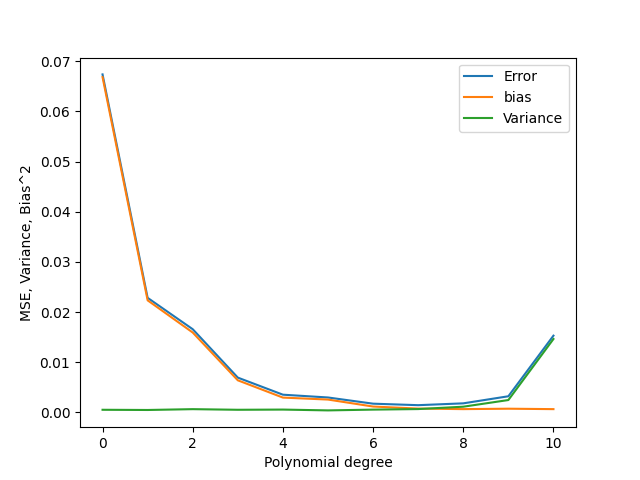
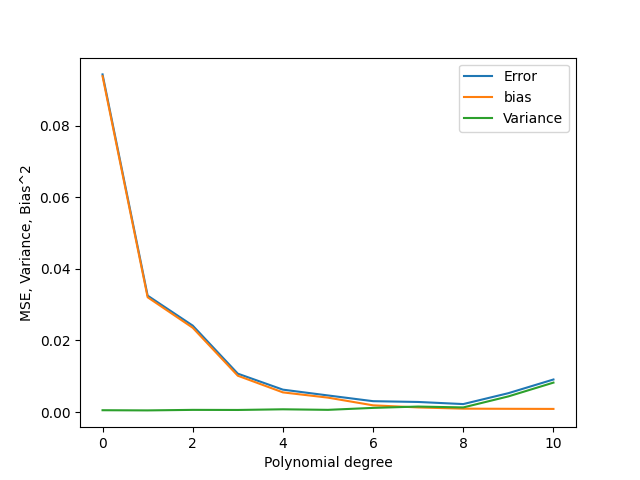
pusher

diff --git a/bootstrap_function.py b/bootstrap_function.py
@@ -1,0 +1,97 @@
+import matplotlib.pyplot as plt
+import numpy as np
+from sklearn.model_selection import train_test_split
+from design_matrix import create_design_matrix
+from ordinary_least_squares import calc_beta
+from sklearn.utils import resample
+
+from ridge_regression import ridge_beta
+
+def bootstrap(x, y, z, max_degree, n_bootstraps):
+
+    np.random.seed(1234)
+
+    error = np.zeros(max_degree)
+    bias = np.zeros(max_degree)
+    variance = np.zeros(max_degree)
+    polydegree = np.zeros(max_degree)
+
+    x_train, x_test, y_train, y_test, z_train, z_test = train_test_split(x, y, z, test_size=0.2)
+
+    for degree in range(max_degree):
+
+        z_pred = np.empty((len(z_test), n_bootstraps))
+        X_test = create_design_matrix(x_test,y_test,degree)
+        X_train = create_design_matrix(x_train,y_train,degree)
+
+
+        for i in range(n_bootstraps):
+            X_, z_ = resample(X_train, z_train)
+            beta = calc_beta(X_, z_)
+            ans = X_test @ beta
+            z_pred[:, i] = ans.ravel()
+
+        polydegree[degree] = degree
+        error[degree] = np.mean( np.mean((z_test - z_pred)**2, axis=1, keepdims=True) )
+        bias[degree] = np.mean( (z_test - np.mean(z_pred, axis=1, keepdims=True))**2 )
+        variance[degree] = np.mean( np.var(z_pred, axis=1, keepdims=True) )
+        print('Polynomial degree:', degree)
+        print('Error:', error[degree])
+        print('Bias^2:', bias[degree])
+        print('Var:', variance[degree])
+        print('{} >= {} + {} = {}'.format(error[degree], bias[degree], variance[degree], bias[degree]+variance[degree]))
+
+    plt.plot(polydegree, error, label='Error')
+    plt.plot(polydegree, bias, label='bias')
+    plt.plot(polydegree, variance, label='Variance')
+    plt.ylabel("MSE, Variance, Bias^2")
+    plt.xlabel("Polynomial degree")
+    plt.legend()
+    plt.show()
+
+def bootstrap_ridge(x, y, z, lam, max_degree, n_bootstraps):
+
+    np.random.seed(1234)
+        
+    error = np.zeros((max_degree, len(lam)))
+    bias = np.zeros((max_degree, len(lam)))
+    variance = np.zeros((max_degree, len(lam)))
+    polydegree = np.zeros((max_degree, len(lam)))
+
+    x_train, x_test, y_train, y_test, z_train, z_test = train_test_split(x, y, z, test_size=0.2)
+
+    for degree in range(max_degree):
+
+        z_pred = np.empty((len(z_test), len(lam), n_bootstraps))
+        X_test = create_design_matrix(x_test,y_test,degree)
+        X_train = create_design_matrix(x_train,y_train,degree)
+
+        for i in range(len(lam)):
+            lmb = lam[i]
+            for j in range(n_bootstraps):
+                X_, z_ = resample(X_train, z_train)
+                beta = ridge_beta(X_, z_, lmb)
+                ans = X_test @ beta
+                z_pred[:, i, j] = ans.ravel()
+
+            polydegree[degree, i] = degree
+            error[degree, i] = np.mean( np.mean((z_test - z_pred)**2, axis=1, keepdims=True) )
+            bias[degree, i] = np.mean( (z_test - np.mean(z_pred, axis=1, keepdims=True))**2 )
+            variance[degree, i] = np.mean( np.var(z_pred, axis=1, keepdims=True) )
+            print('Polynomial degree:', degree)
+            print('Error:', error[degree])
+            print('Bias^2:', bias[degree])
+            print('Var:', variance[degree])
+            print('{} >= {} + {} = {}'.format(error[degree], bias[degree], variance[degree], bias[degree]+variance[degree]))
+
+    for i in range(len(lam)):
+        plt.plot(lam, error[i], label='Error')
+        plt.plot(lam, bias[i], label='bias')
+        plt.plot(lam, variance[i], label='Variance')
+    plt.ylabel("MSE, Variance, Bias^2")
+    plt.xlabel("lambda")
+    plt.legend()
+    plt.show()
+
+
+

diff --git a/test_to_be_deleted.py b/test_to_be_deleted.py
@@ -1,0 +1,24 @@
+import numpy as np
+from FrankeFunction import FrankeFunctionNoised
+from bootstrap_function import bootstrap, bootstrap_ridge
+
+np.random.seed(1234)
+n = 40
+n_bootstraps = 500
+start_degree = 0
+maxdegree = 11
+nlambdas = 10
+lambdas = np.logspace(-3, 1, nlambdas)
+
+# Make data set.
+x = np.arange(0, 1, 0.075)
+y = np.arange(0, 1, 0.075)
+x, y = np.meshgrid(x,y)
+z = FrankeFunctionNoised(x,y,0.01)
+x = x.ravel()
+y = y.ravel()
+z = z.ravel().reshape(-1,1)
+
+#bootstrap(x, y, z, maxdegree, n_bootstraps)
+
+bootstrap_ridge(x, y, z, lambdas, maxdegree, n_bootstraps)
